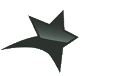
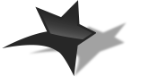
Ajout de la distance sur scroll + small revamp

Changed region(s): [[0.0, 0.0, 0.9, 1.0]]

diff --git a/Resources/model/Shop.js b/Resources/model/Shop.js
@@ -277,12 +277,12 @@ function Shop(json) {'use strict';
     // --------------------------------------------------------
     // For display in table view !
     // --------------------------------------------------------
-    this.setDistance = function(label, dist) {
-        if(dist && label) {
+    this.setDistance = function(row, dist) {
+        if(dist && row) {
             if(dist > 1000) {
-                label.setText("A " + Math.round(dist / 10) / 100 + " km.");
+                row.distance = "à " + Math.round(dist / 10) / 100 + " km.";
             } else {
-                label.setText("A " +dist + " m.");
+                row.distance = "à " +dist + " m.";
             }
         }
     };
@@ -414,17 +414,19 @@ function Shop(json) {'use strict';
         
         var ntop = (isBig ? 80 : 1);
         
-        var btShowMap = Ti.UI.createImageView({
+        var btShowMap = Ti.UI.createButton({
+            style : Ti.UI.iPhone.SystemButtonStyle.PLAIN,
             image : '/images/bullet.png',
             width : 25, 
             height: 25,
             top : ntop + 23,
-            zIndex : 1,
+            zIndex : 100,
             right : 5
         });
         view.add(btShowMap);
         
-        var mapview = Ti.UI.createImageView({
+        var mapview = Ti.UI.createButton({
+            style : Ti.UI.iPhone.SystemButtonStyle.PLAIN,
             borderRadius : 1,
             borderWidth : 2,
             borderColor : 'white',
@@ -435,10 +437,9 @@ function Shop(json) {'use strict';
             top : ntop,
             left : 9,
             shadow:{
-                shadowColor:'gray',
                 shadowRadius:2,
                 shadowOpacity:0.7,
-                shadowOffset:{x:3, y:3}
+                shadowOffset:{x:2, y:2}
             }
         });
         if(! isBig) {
@@ -472,7 +473,8 @@ function Shop(json) {'use strict';
             backgroundColor : '#f0f0f0',
             height : ntop + buttonHeight + advertHeight + 15 + 5,
             className : 'shopRow',
-            object_index : this.index
+            object_index : this.index,
+            selectedBackgroundColor :'#f0f0f0' 
         });
         var container = Ti.UI.createView({
             top : 5,
@@ -522,8 +524,8 @@ function Shop(json) {'use strict';
         }
         
         // Then we add 2 views : for step and for scan
-        var stepInView = createButton(' +' + this.getStepInPoints() + ' steps', '/images/steps-small.png', 99);
-        if(this.checkin) {
+        var stepInView = createButton(' +' + this.getPoints(Reward.ACTION_KIND_STEPIN) + ' steps', '/images/steps-small.png', 99);
+        if(self.checkin) {
             stepInView.backgroundColor = '#eadae3';
         }
         internView.add(stepInView);
@@ -532,6 +534,7 @@ function Shop(json) {'use strict';
             if(! self.checkin) {
                 alert("Entrez dans le magasin et gardez votre téléphone en main.\nVous gagnerez automatiquement des steps !");
             } else {
+                stepInView.backgroundColor = '#eadae3';
                 alert("Vous avez déjà fait un Step-In aujourd'hui dans ce magasin ! Ré-essayez demain :-)");
             }
         });
@@ -565,20 +568,21 @@ function Shop(json) {'use strict';
         row.moveNext = function() {
             advertView.moveNext();
         };
+        
+        this.updateRow(row);
+        
         return row;
     };
     
     this.updateRow = function(row) {
         // We run a distance computation
-        if(row.labelDistance) {
-            if(! this.hasOwnProperty('distance')) {
-                var self = this;
-                this.computeDistance(function(dist) {
-                    self.setDistance(row.labelDistance, dist);
-                });            
-            } else {
-                this.setDistance(row.labelDistance, this.distance);
-            }
+        if(! this.hasOwnProperty('distance')) {
+            var self = this;
+            this.computeDistance(function(dist) {
+                self.setDistance(row, dist);
+            });            
+        } else {
+            this.setDistance(row, this.distance);
         }
         return row;
     };

diff --git a/Resources/ui/common/TabviewWindow.js b/Resources/ui/common/TabviewWindow.js
@@ -123,22 +123,52 @@ function TabViewWindow(args) {
         }
     });
     
-    /*
-	tv.addEventListener('click', function(e)
-	{
-	    if (e.rowData && e.rowData.object_index)
-		{
-            var row_index = e.index;
-            var obj_index = e.rowData.object_index;
-            var obj = AppUser.getShop(obj_index);
-			var ShopDetailWindow = require('ui/common/ShopDetailWindow'),
-                swin = new ShopDetailWindow(obj, tabGroup);
-            
-			tabGroup.openWindow(self.containingTab,swin,{animated:true});
-		}
-	});
-	*/
-	
+    var labelDistance = Ti.UI.createLabel({
+        backgroundImage : '/images/bck-pink-60p.png',
+        color : 'white',
+        width : 48,
+        textAlign : Ti.UI.TEXT_ALIGNMENT_CENTER,
+        font : { fontSize : 10, fontWeight : 'normal'},
+        visible : false,
+        right : 10,
+        opacity : 0.8
+    });
+    self.add(labelDistance);
+    
+    var tvHeight = null;
+    tv.addEventListener('scroll', function(e) {
+        var offset = e.contentOffset.y;
+        // We need to find the row associated to this offset
+        if(offset >= 0) {
+            var section = tv.getData();
+            if(section && section.length > 0) {
+                var rows = section[0].getRows();
+                var i, found = false, ntop = 0;
+                for(i = 0; ! found && rows && i < rows.length; i++) {
+                    var row = rows[i];
+                    if(ntop <= offset && ntop + row.height >= offset) {
+                        found = true;
+                        if(! tvHeight) {
+                            // We don't stop if we haven't computed the total height
+                            found = false;
+                        }
+                        labelDistance.setText(row.distance);
+                    }
+                    ntop += row.height;
+                }
+                if(! tvHeight) {
+                    tvHeight = ntop;
+                }
+            }
+            labelDistance.top = (offset / tvHeight * 366) + 37;
+            labelDistance.visible = true;
+        }
+    });
+    
+    tv.addEventListener('dragEnd', function(e) {
+        labelDistance.visible = false;
+    });
+
     self.add(listView);
     
     self.tv = tv;

diff --git a/Resources/ui/common/SmallPresentWindow.js b/Resources/ui/common/SmallPresentWindow.js
@@ -14,7 +14,7 @@ function SmallPresentWindow(prevPresents, nextPresent, tabGroup) { 'use strict';
     var t = Titanium.UI.create2DMatrix({ scale : 0 });
     
     var buttonHeight = 25;
-    var height = Math.min(2, prevPresents.length) * 40 + 60 + buttonHeight;
+    var height = Math.min(2, prevPresents.length) * 40 + 60 + buttonHeight + 10;
     
     var self = Ti.UI.createWindow({
         width : '100%',
@@ -22,16 +22,28 @@ function SmallPresentWindow(prevPresents, nextPresent, tabGroup) { 'use strict';
     });
 
     var view = Ti.UI.createView({
-        borderRadius : 4,
+        borderRadius : 1,
         borderColor : "#d92276",
-        borderWidth : 2,
+        borderWidth : 1,
         transform : t,
         top : 45,
         right : 5,
-        width : 250,
+        backgroundColor : '#f0f0f0',
+        width : 260,
         height : height,
         anchorPoint:{x:1,y:0}
     });
+    
+    var internView = Ti.UI.createView({
+        top : 5, left : 5,
+        right : 5, bottom : 5,
+        backgroundColor : 'white',
+        shadow : {
+                shadowOffset : {x:1,y:1},
+                shadowRadius : 2
+            }
+    });
+    view.add(internView);
     
     var user = AppUser.getCurrentUser();
     var points = user.getTotalPoints() || 0;
@@ -104,21 +116,10 @@ function SmallPresentWindow(prevPresents, nextPresent, tabGroup) { 'use strict';
     
     var tv = Ti.UI.createTableView({
         data : data,
-        backgroundColor : '#f0f0f0',
         top : 0,
         height : height - buttonHeight
     });
-    view.add(tv);
-    
-    /*
-    var opacView = Ti.UI.createView({
-        opacity : 0.5,
-        height : 40,
-        bottom : 0,
-        backgroundColor : 'black'
-    });
-    view.add(opacView);
-    */
+    internView.add(tv);
     
     var bt = Ti.UI.createButtonBar({
         style : Ti.UI.iPhone.SystemButtonStyle.BAR,
@@ -129,7 +130,7 @@ function SmallPresentWindow(prevPresents, nextPresent, tabGroup) { 'use strict';
         bottom : 0,
         zIndex : 10
     });
-    view.add(bt);
+    internView.add(bt);
     
     function niceClose(func) {
         var t3 = Ti.UI.create2DMatrix({scale : 0});

diff --git a/Resources/ui/common/AdvertView.js b/Resources/ui/common/AdvertView.js
@@ -9,29 +9,18 @@
 /*jslint nomen: true, evil: false, vars: true, plusplus : true */
 function AdvertView(imgs, options) { 'use strict';
 
-    options.showPagingControl = false;
-    options.scrollingEnabled = false;
-    options.clipViews = false;
+    var self = Ti.UI.createImageView(options);
 
-    var self = Ti.UI.createScrollableView(options);
+    var nbImgs = imgs.length; 
+    var page = Math.max(0, Math.min(nbImgs - 1, Math.ceil(Math.random() * nbImgs)));
+    self.setImage(imgs[page]);
 
-    var nbImgs = imgs.length, i, views = [];
-    for(i = 0; i < nbImgs; i ++) {
-        var img = Ti.UI.createImageView({
-            image : imgs[i]
-        });
-        views.push(img);
-    }
-    var page = Math.min(0, Math.max(nbImgs - 1, Math.ceil(Math.random() * nbImgs)));
-    self.setViews(views);
-    self.setCurrentPage(page);
-        
     self.moveNext = function() {
         page ++;
-        if(page >= self.views.length) {
+        if(page >= nbImgs) {
             page = 0;
         }
-        self.scrollToView(page);
+        self.setImage(imgs[page]);
     };
     
     return self;

diff --git a/Resources/model/Scan.js b/Resources/model/Scan.js
@@ -89,7 +89,8 @@ function Scan(json) {'use strict';
     };
     
     this.addOverHeader = function(view) {
-        var img = Ti.UI.createImageView({
+        var img = Ti.UI.createButton({
+            style : Ti.UI.iPhone.SystemButtonStyle.PLAIN,
             borderRadius : 1,
             borderWidth : 2,
             borderColor : 'darkgray',
@@ -99,10 +100,9 @@ function Scan(json) {'use strict';
             top : 1,
             left : 9,
             shadow:{
-                shadowColor:'gray',
                 shadowRadius:2,
-                shadowOpacity:0.8,
-                shadowOffset:{x:3, y:3}
+                shadowOpacity:0.7,
+                shadowOffset:{x:2, y:2}
             }
         });
         view.add(img);

diff --git a/Resources/services/DataManager.js b/Resources/services/DataManager.js
@@ -128,7 +128,7 @@ DataManager.prototype.getList = function(obj, qparams, func) {'use strict';
         function(ret) {
             Ti.API.info('GET List answer : ' + JSON.stringify(ret));
             if(func) {
-                func(ret.array.resources);
+                func(ret && ret.array && ret.array.resources);
             } 
         }
     );

diff --git a/Resources/etc/AppImage.js b/Resources/etc/AppImage.js
@@ -710,7 +710,7 @@ Image.squareImage = function(image, size) { 'use strict';
 Image.createStepInStarPoints = function(image, points, over) { 'use strict';
     var view = Ti.UI.createView({
         width : 100,
-        height : 50 
+        height : 55 
     });
     var img = Ti.UI.createImageView({
         image : image,
